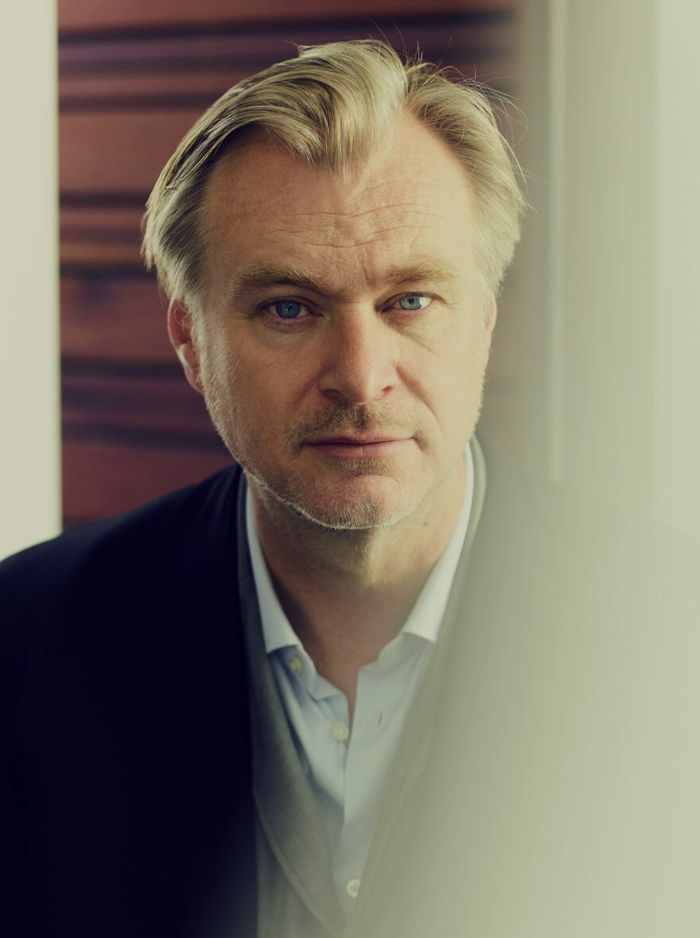
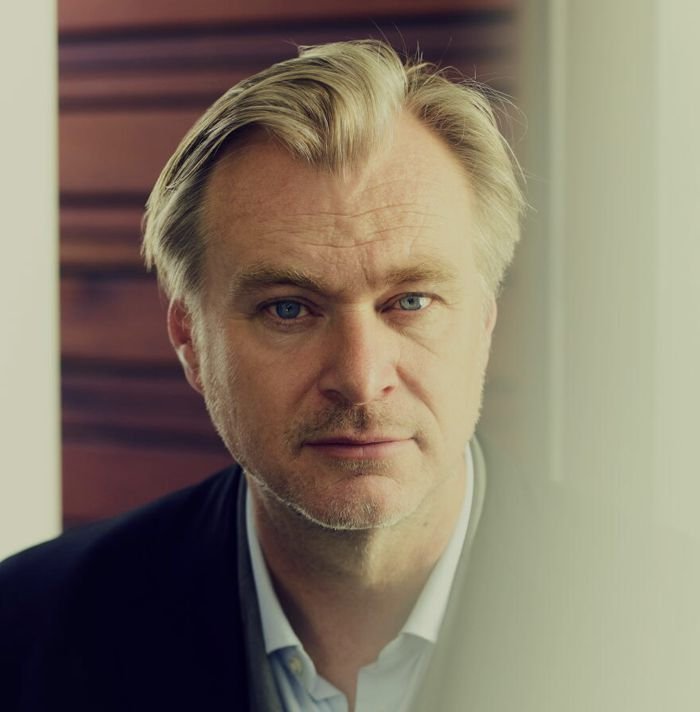
Auteurs hero: level the two directors' eyelines
Nolan's portrait is re-cropped so his eyes sit 43% down the image, the
same as Villeneuve's, and both are positioned at 43%, so the eyelines
match at every screen width rather than at one tuned size.

diff --git a/index.html b/index.html
@@ -1288,15 +1288,17 @@ select.forecast-input{appearance:none;-webkit-appearance:none;
     radial-gradient(ellipse 55% 90% at 88% 10%,rgba(228,140,92,.16),transparent 70%);
 }
 /* Head-to-head portraits: Nolan left, Villeneuve right (mirrored from the
-   source photo so he faces in), each on his own color side. */
+   source photo so he faces in), each on his own color side. Both images are
+   cropped so the eyes sit 43% down, and positioned at 43%, which keeps the
+   eyelines level at any box size. */
 #tab-auteurs .au-face{
   position:absolute;top:0;bottom:0;width:42%;z-index:-2;pointer-events:none;
   background-size:cover;background-repeat:no-repeat;opacity:.5;
   animation:auFaceIn 1.4s var(--ease) both;
 }
-#tab-auteurs .au-face.n{left:0;background-position:62% 22%;
+#tab-auteurs .au-face.n{left:0;background-position:62% 43%;
   -webkit-mask-image:linear-gradient(to right,#000 30%,transparent 92%);mask-image:linear-gradient(to right,#000 30%,transparent 92%)}
-#tab-auteurs .au-face.v{right:0;background-position:40% 30%;
+#tab-auteurs .au-face.v{right:0;background-position:40% 43%;
   -webkit-mask-image:linear-gradient(to left,#000 30%,transparent 92%);mask-image:linear-gradient(to left,#000 30%,transparent 92%)}
 #tab-auteurs .au-hero::after{
   content:'';position:absolute;inset:0;z-index:-1;pointer-events:none;
